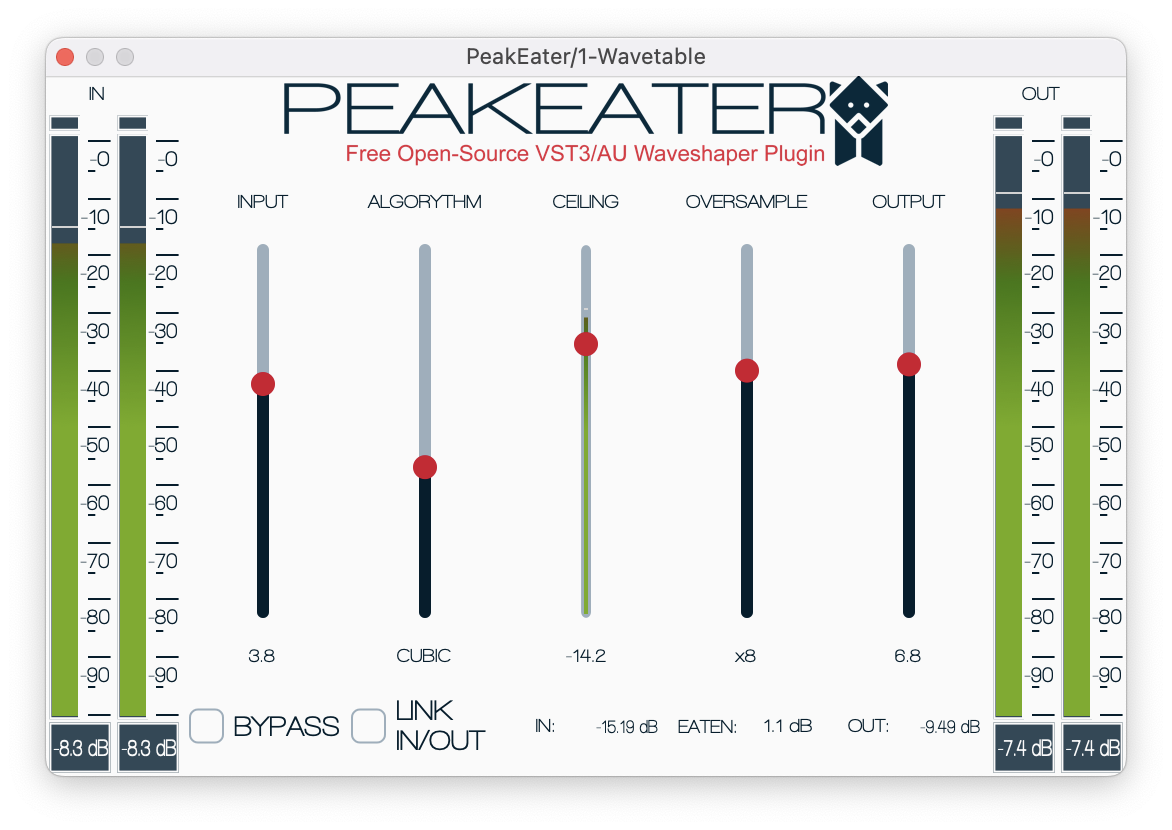
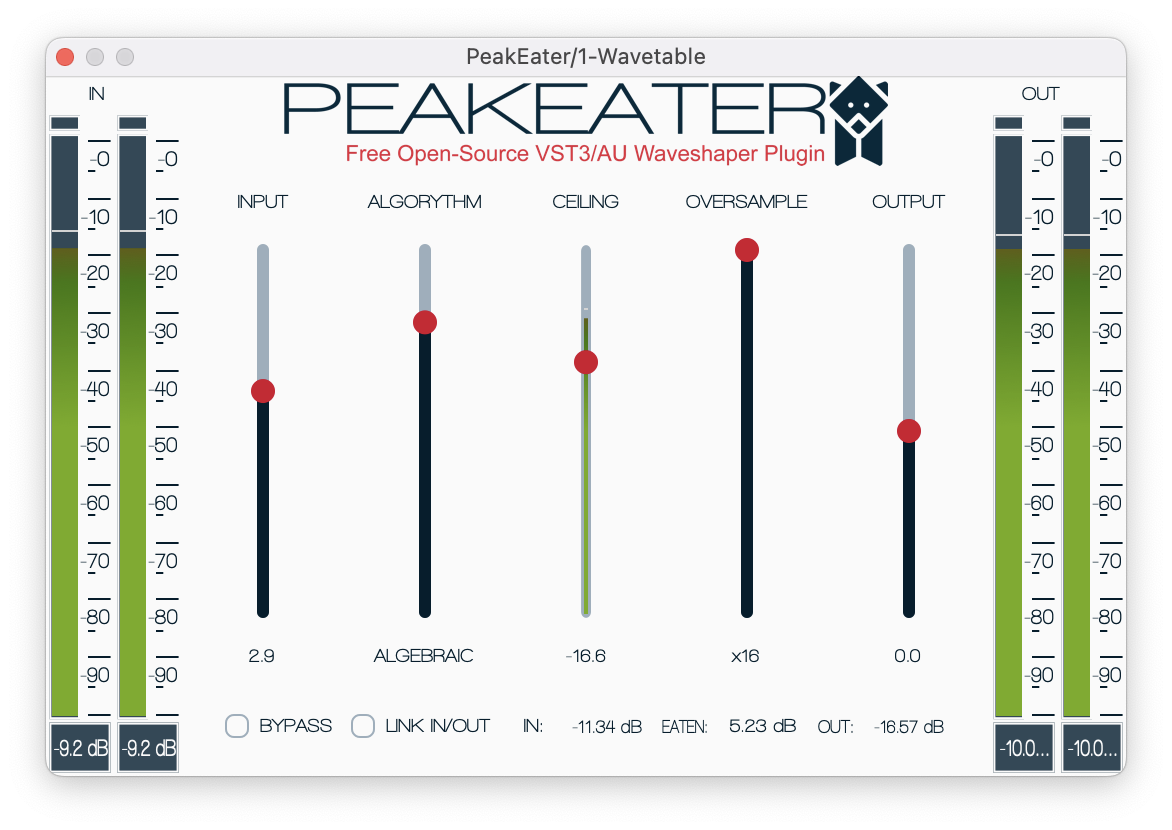
Added debouncing for in/out; Updated screenshot;

diff --git a/Source/Widgets/PeakAnalyzer.h b/Source/Widgets/PeakAnalyzer.h
@@ -45,7 +45,7 @@ public:
         };
         
         grid.templateColumns = {
-            Track (Fr (1)), Track (Fr (1)), Track (Fr (1)), Track (Fr (1)), Track (Fr (1)), Track (Fr (1))
+            Track (Fr (5)), Track (Fr (8)), Track (Fr (6)), Track (Fr (8)), Track (Fr (5)), Track (Fr (8))
         };
         
         grid.items = {
@@ -60,24 +60,34 @@ public:
     //==============================================================================
     void timerCallback() override
     {
+        auto dbIn      = processor.getDecibelsIn();
         auto dbClipped = processor.getDecibelsClipped();
+        auto dbOut     = processor.getDecibelsOut();
         
-        if (ticks >= 10 * 3)
+        if (ticks >= 10 * 3) // 3 seconds
         {
+            prevDbIn      = dbIn;
             prevDbClipped = dbClipped;
+            prevDbOut     = dbOut;
             ticks = 0;
         } else
         {
+            if (dbIn > prevDbIn)
+            {
+                prevDbIn = dbIn;
+            }
             if (dbClipped > prevDbClipped)
             {
                 prevDbClipped = dbClipped;
             }
+            if (dbOut > prevDbOut)
+            {
+                prevDbOut = dbOut;
+            }
             ticks++;
         }
         
-        inputMagnitudeValue.setText (dbToString (processor.getDecibelsIn()), juce::dontSendNotification);
-        outputMagnitudeValue.setText (dbToString (processor.getDecibelsOut()), juce::dontSendNotification);
-        clippedMagnitudeValue.setText (dbToString (prevDbClipped), juce::dontSendNotification);
+        setLabelValues(prevDbIn, prevDbClipped, prevDbOut);
     }
 private:
     //==============================================================================
@@ -85,7 +95,9 @@ private:
     
     //==============================================================================
     unsigned int ticks  = 0;
+    float prevDbIn      = 0;
     float prevDbClipped = 0;
+    float prevDbOut     = 0;
     
     //==============================================================================
     widgets::Label inputMagnitudeLabel { "InputMagnitudeLabel", "IN:" };
@@ -96,6 +108,14 @@ private:
     
     widgets::Label outputMagnitudeLabel { "OutputMagnitudeLabel", "OUT:" };
     widgets::Label outputMagnitudeValue { "OutputMagnitudeValue", "0 dB" };
+    
+    //==============================================================================
+    void setLabelValues(float input, float clipped, float output)
+    {
+        inputMagnitudeValue.setText   (dbToString (input), juce::dontSendNotification);
+        clippedMagnitudeValue.setText (dbToString (clipped), juce::dontSendNotification);
+        outputMagnitudeValue.setText  (dbToString (output), juce::dontSendNotification);
+    }
     
     //==============================================================================
     juce::String dbToString(const float db) const noexcept

diff --git a/Source/Layout/Footer.h b/Source/Layout/Footer.h
@@ -40,7 +40,7 @@ public:
         };
         grid.templateColumns = { Track (Fr (1)), Track (Fr (1)), Track (Fr (3)) };
         grid.items = {
-            Item(bypass).withMargin (Item::Margin (0, 0, 0, 20)), Item(linkInOut), Item(peakAnalyzer).withMargin (Item::Margin (0, 20, 0, 0)),
+            Item(bypass).withMargin (Item::Margin (0, 0, 0, 18)), Item(linkInOut), Item(peakAnalyzer).withMargin (Item::Margin (0, 18, 0, 0)),
         };
          
         grid.performLayout (getLocalBounds());
